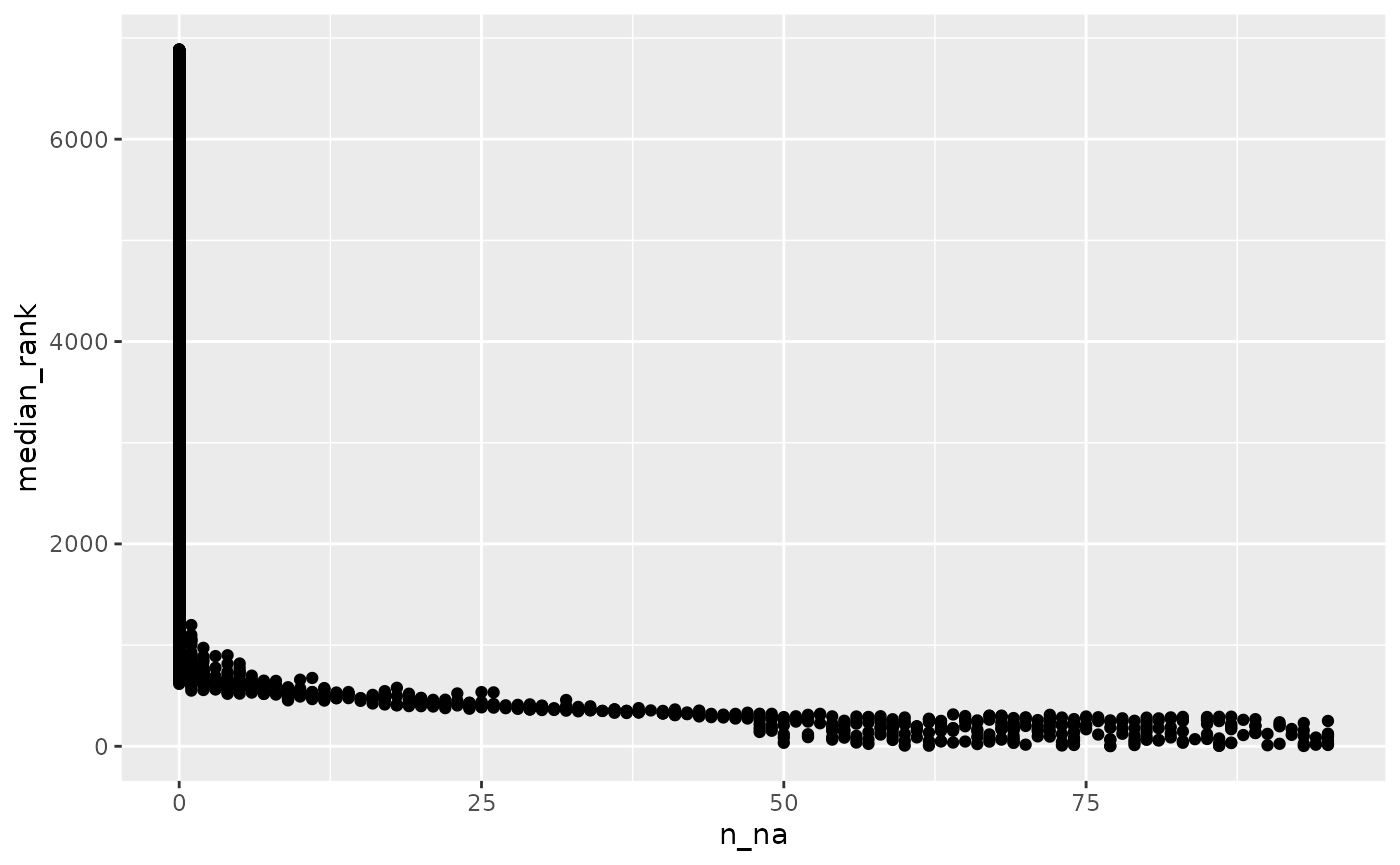
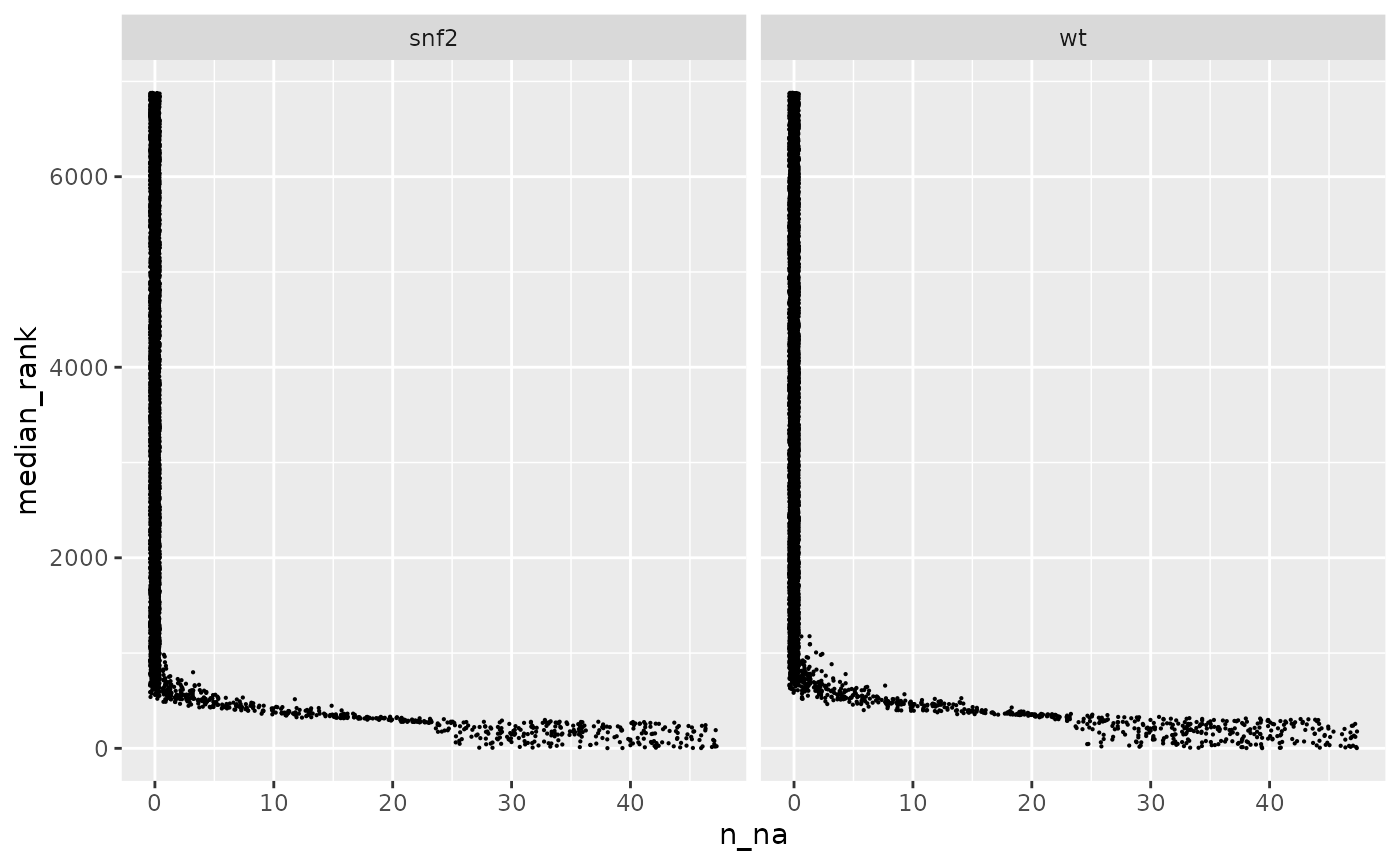
adds sample classes for the rank ordering

diff --git a/docs/articles/testing-for-left-censorship.html b/docs/articles/testing-for-left-censorship.html
@@ -26,7 +26,7 @@
     
     <a class="navbar-brand me-2" href="../index.html">ICIKendallTau</a>
 
-    <small class="nav-text text-muted me-auto" data-bs-toggle="tooltip" data-bs-placement="bottom" title="">1.1.2</small>
+    <small class="nav-text text-muted me-auto" data-bs-toggle="tooltip" data-bs-placement="bottom" title="">1.1.3</small>
 
     
     <button class="navbar-toggler" type="button" data-bs-toggle="collapse" data-bs-target="#navbar" aria-controls="navbar" aria-expanded="false" aria-label="Toggle navigation">
@@ -215,25 +215,28 @@ in a real data context.</p>
 <p>In addition to testing, we can re-order the features based on their
 median ranking across samples.</p>
 <div class="sourceCode" id="cb8"><pre class="downlit sourceCode r">
-<code class="sourceCode R"><span><span class="va">yeast_order</span> <span class="op">=</span> <span class="fu"><a href="../reference/rank_order_data.html">rank_order_data</a></span><span class="op">(</span><span class="va">yeast_missing</span><span class="op">)</span></span></code></pre></div>
+<code class="sourceCode R"><span><span class="va">yeast_order</span> <span class="op">=</span> <span class="fu"><a href="../reference/rank_order_data.html">rank_order_data</a></span><span class="op">(</span><span class="va">yeast_missing</span>, sample_classes <span class="op">=</span> <span class="va">yeast_classes</span><span class="op">)</span></span></code></pre></div>
 <div class="sourceCode" id="cb9"><pre class="downlit sourceCode r">
-<code class="sourceCode R"><span><span class="fu">visdat</span><span class="fu">::</span><span class="fu"><a href="https://docs.ropensci.org/visdat/reference/vis_miss.html" class="external-link">vis_miss</a></span><span class="op">(</span><span class="fu"><a href="https://rdrr.io/r/base/as.data.frame.html" class="external-link">as.data.frame</a></span><span class="op">(</span><span class="va">yeast_order</span><span class="op">$</span><span class="va">original</span><span class="op">)</span><span class="op">)</span></span></code></pre></div>
+<code class="sourceCode R"><span><span class="fu">visdat</span><span class="fu">::</span><span class="fu"><a href="https://docs.ropensci.org/visdat/reference/vis_miss.html" class="external-link">vis_miss</a></span><span class="op">(</span><span class="fu"><a href="https://rdrr.io/r/base/as.data.frame.html" class="external-link">as.data.frame</a></span><span class="op">(</span><span class="va">yeast_order</span><span class="op">$</span><span class="va">wt</span><span class="op">$</span><span class="va">original</span><span class="op">)</span><span class="op">)</span></span></code></pre></div>
 <div class="figure">
 <img src="testing-for-left-censorship_files/figure-html/fig-yeast-original-1.png" alt="Missingness in yeast data set, no ordering." width="700"><p class="caption">
 Missingness in yeast data set, no ordering.
 </p>
 </div>
 <div class="sourceCode" id="cb10"><pre class="downlit sourceCode r">
-<code class="sourceCode R"><span><span class="fu">visdat</span><span class="fu">::</span><span class="fu"><a href="https://docs.ropensci.org/visdat/reference/vis_miss.html" class="external-link">vis_miss</a></span><span class="op">(</span><span class="fu"><a href="https://rdrr.io/r/base/as.data.frame.html" class="external-link">as.data.frame</a></span><span class="op">(</span><span class="va">yeast_order</span><span class="op">$</span><span class="va">ordered</span><span class="op">)</span><span class="op">)</span></span></code></pre></div>
+<code class="sourceCode R"><span><span class="fu">visdat</span><span class="fu">::</span><span class="fu"><a href="https://docs.ropensci.org/visdat/reference/vis_miss.html" class="external-link">vis_miss</a></span><span class="op">(</span><span class="fu"><a href="https://rdrr.io/r/base/as.data.frame.html" class="external-link">as.data.frame</a></span><span class="op">(</span><span class="va">yeast_order</span><span class="op">$</span><span class="va">wt</span><span class="op">$</span><span class="va">ordered</span><span class="op">)</span><span class="op">)</span></span></code></pre></div>
 <div class="figure">
 <img src="testing-for-left-censorship_files/figure-html/fig-yeast-reordered-1.png" alt="Missingness in yeast data set, after ordering features by rank." width="700"><p class="caption">
 Missingness in yeast data set, after ordering features by rank.
 </p>
 </div>
 <div class="sourceCode" id="cb11"><pre class="downlit sourceCode r">
-<code class="sourceCode R"><span><span class="va">yeast_order</span><span class="op">$</span><span class="va">n_na_rank</span> <span class="op">|&gt;</span></span>
+<code class="sourceCode R"><span><span class="va">yeast_n_na</span> <span class="op">=</span> <span class="fu">dplyr</span><span class="fu">::</span><span class="fu"><a href="https://dplyr.tidyverse.org/reference/bind_rows.html" class="external-link">bind_rows</a></span><span class="op">(</span><span class="va">yeast_order</span><span class="op">$</span><span class="va">wt</span><span class="op">$</span><span class="va">n_na_rank</span>,</span>
+<span>                              <span class="va">yeast_order</span><span class="op">$</span><span class="va">snf2</span><span class="op">$</span><span class="va">n_na_rank</span><span class="op">)</span></span>
+<span><span class="va">yeast_n_na</span> <span class="op">|&gt;</span></span>
 <span>  <span class="fu"><a href="https://ggplot2.tidyverse.org/reference/ggplot.html" class="external-link">ggplot</a></span><span class="op">(</span><span class="fu"><a href="https://ggplot2.tidyverse.org/reference/aes.html" class="external-link">aes</a></span><span class="op">(</span>x <span class="op">=</span> <span class="va">n_na</span>, y <span class="op">=</span> <span class="va">median_rank</span><span class="op">)</span><span class="op">)</span> <span class="op">+</span></span>
-<span>  <span class="fu"><a href="https://ggplot2.tidyverse.org/reference/geom_point.html" class="external-link">geom_point</a></span><span class="op">(</span><span class="op">)</span></span></code></pre></div>
+<span>  <span class="fu"><a href="https://ggplot2.tidyverse.org/reference/geom_point.html" class="external-link">geom_point</a></span><span class="op">(</span>size <span class="op">=</span> <span class="fl">0.1</span>, position <span class="op">=</span> <span class="st">"jitter"</span><span class="op">)</span> <span class="op">+</span></span>
+<span>  <span class="fu"><a href="https://ggplot2.tidyverse.org/reference/facet_wrap.html" class="external-link">facet_wrap</a></span><span class="op">(</span><span class="op">~</span> <span class="va">split</span>, nrow <span class="op">=</span> <span class="fl">1</span><span class="op">)</span></span></code></pre></div>
 <div class="figure">
 <img src="testing-for-left-censorship_files/figure-html/fig-yeast-nna-1.png" alt="Feature rank as a function of the number of missing values." width="700"><p class="caption">
 Feature rank as a function of the number of missing values.

diff --git a/docs/articles/ici-kendalltau.html b/docs/articles/ici-kendalltau.html
@@ -26,7 +26,7 @@
     
     <a class="navbar-brand me-2" href="../index.html">ICIKendallTau</a>
 
-    <small class="nav-text text-muted me-auto" data-bs-toggle="tooltip" data-bs-placement="bottom" title="">1.1.2</small>
+    <small class="nav-text text-muted me-auto" data-bs-toggle="tooltip" data-bs-placement="bottom" title="">1.1.3</small>
 
     
     <button class="navbar-toggler" type="button" data-bs-toggle="collapse" data-bs-target="#navbar" aria-controls="navbar" aria-expanded="false" aria-label="Toggle navigation">
@@ -329,11 +329,11 @@ use the double merge-sort algorithm, translating {scipy::
 <span><span class="op">)</span></span>
 <span><span class="co">#&gt; Unit: microseconds</span></span>
 <span><span class="co">#&gt;                           expr       min        lq       mean    median</span></span>
-<span><span class="co">#&gt;  cor(x, y, method = "kendall") 12834.512 13001.553 13462.7952 13188.325</span></span>
-<span><span class="co">#&gt;         ici_kt(x, y, "global")   260.892   270.884   320.7872   287.899</span></span>
+<span><span class="co">#&gt;  cor(x, y, method = "kendall") 13366.180 13440.327 14114.0554 13697.570</span></span>
+<span><span class="co">#&gt;         ici_kt(x, y, "global")   262.627   307.663   346.0602   320.794</span></span>
 <span><span class="co">#&gt;         uq       max neval</span></span>
-<span><span class="co">#&gt;  14032.272 14257.314     5</span></span>
-<span><span class="co">#&gt;    319.557   464.704     5</span></span></code></pre></div>
+<span><span class="co">#&gt;  14627.574 15438.626     5</span></span>
+<span><span class="co">#&gt;    369.942   469.275     5</span></span></code></pre></div>
 <div class="sourceCode" id="cb3"><pre class="downlit sourceCode r">
 <code class="sourceCode R"><span><span class="fu"><a href="https://rdrr.io/r/base/all.equal.html" class="external-link">all.equal</a></span><span class="op">(</span><span class="fu"><a href="../reference/ici_kt.html">ici_kt</a></span><span class="op">(</span><span class="va">x</span>, <span class="va">y</span>, <span class="st">"global"</span><span class="op">)</span><span class="op">[[</span><span class="fl">1</span><span class="op">]</span><span class="op">]</span>, <span class="fu"><a href="https://rdrr.io/r/stats/cor.html" class="external-link">cor</a></span><span class="op">(</span><span class="va">x</span>, <span class="va">y</span>, method <span class="op">=</span> <span class="st">"kendall"</span><span class="op">)</span><span class="op">)</span></span>
 <span><span class="co">#&gt; [1] TRUE</span></span></code></pre></div>

diff --git a/docs/reference/rank_order_data.html b/docs/reference/rank_order_data.html
@@ -16,7 +16,7 @@ and a data.frame of the ranks of each feature and the number of missing values."
     
     <a class="navbar-brand me-2" href="../index.html">ICIKendallTau</a>
 
-    <small class="nav-text text-muted me-auto" data-bs-toggle="tooltip" data-bs-placement="bottom" title="">1.1.2</small>
+    <small class="nav-text text-muted me-auto" data-bs-toggle="tooltip" data-bs-placement="bottom" title="">1.1.3</small>
 
     
     <button class="navbar-toggler" type="button" data-bs-toggle="collapse" data-bs-target="#navbar" aria-controls="navbar" aria-expanded="false" aria-label="Toggle navigation">
@@ -67,7 +67,7 @@ and a data.frame of the ranks of each feature and the number of missing values.<
 
     <div class="section level2">
     <h2 id="ref-usage">Usage<a class="anchor" aria-label="anchor" href="#ref-usage"></a></h2>
-    <div class="sourceCode"><pre class="sourceCode r"><code><span><span class="fu">rank_order_data</span><span class="op">(</span><span class="va">data_matrix</span>, global_na <span class="op">=</span> <span class="fu"><a href="https://rdrr.io/r/base/c.html" class="external-link">c</a></span><span class="op">(</span><span class="cn">NA</span>, <span class="cn">Inf</span>, <span class="fl">0</span><span class="op">)</span><span class="op">)</span></span></code></pre></div>
+    <div class="sourceCode"><pre class="sourceCode r"><code><span><span class="fu">rank_order_data</span><span class="op">(</span><span class="va">data_matrix</span>, global_na <span class="op">=</span> <span class="fu"><a href="https://rdrr.io/r/base/c.html" class="external-link">c</a></span><span class="op">(</span><span class="cn">NA</span>, <span class="cn">Inf</span>, <span class="fl">0</span><span class="op">)</span>, sample_classes <span class="op">=</span> <span class="cn">NULL</span><span class="op">)</span></span></code></pre></div>
     </div>
 
     <div class="section level2">
@@ -78,6 +78,10 @@ and a data.frame of the ranks of each feature and the number of missing values.<
 
 <dt>global_na</dt>
 <dd><p>the values to consider as missing</p></dd>
+
+
+<dt>sample_classes</dt>
+<dd><p>are the columns defined by some metadata?</p></dd>
 
 </dl></div>
     <div class="section level2">

diff --git a/docs/reference/test_left_censorship.html b/docs/reference/test_left_censorship.html
@@ -14,7 +14,7 @@ left-censored distribution."><!-- mathjax --><script src="https://cdnjs.cloudfla
     
     <a class="navbar-brand me-2" href="../index.html">ICIKendallTau</a>
 
-    <small class="nav-text text-muted me-auto" data-bs-toggle="tooltip" data-bs-placement="bottom" title="">1.1.2</small>
+    <small class="nav-text text-muted me-auto" data-bs-toggle="tooltip" data-bs-placement="bottom" title="">1.1.3</small>
 
     
     <button class="navbar-toggler" type="button" data-bs-toggle="collapse" data-bs-target="#navbar" aria-controls="navbar" aria-expanded="false" aria-label="Toggle navigation">
@@ -66,8 +66,8 @@ left-censored distribution.</p>
     <h2 id="ref-usage">Usage<a class="anchor" aria-label="anchor" href="#ref-usage"></a></h2>
     <div class="sourceCode"><pre class="sourceCode r"><code><span><span class="fu">test_left_censorship</span><span class="op">(</span></span>
 <span>  <span class="va">data_matrix</span>,</span>
-<span>  sample_classes <span class="op">=</span> <span class="cn">NULL</span>,</span>
-<span>  global_na <span class="op">=</span> <span class="fu"><a href="https://rdrr.io/r/base/c.html" class="external-link">c</a></span><span class="op">(</span><span class="cn">NA</span>, <span class="cn">Inf</span>, <span class="fl">0</span><span class="op">)</span></span>
+<span>  global_na <span class="op">=</span> <span class="fu"><a href="https://rdrr.io/r/base/c.html" class="external-link">c</a></span><span class="op">(</span><span class="cn">NA</span>, <span class="cn">Inf</span>, <span class="fl">0</span><span class="op">)</span>,</span>
+<span>  sample_classes <span class="op">=</span> <span class="cn">NULL</span></span>
 <span><span class="op">)</span></span></code></pre></div>
     </div>
 
@@ -77,12 +77,12 @@ left-censored distribution.</p>
 <dd><p>matrix or data.frame of numeric data</p></dd>
 
 
-<dt>sample_classes</dt>
-<dd><p>which samples are in which class</p></dd>
-
-
 <dt>global_na</dt>
 <dd><p>what represents zero or missing?</p></dd>
+
+
+<dt>sample_classes</dt>
+<dd><p>which samples are in which class</p></dd>
 
 </dl></div>
     <div class="section level2">

diff --git a/docs/authors.html b/docs/authors.html
@@ -10,7 +10,7 @@
     
     <a class="navbar-brand me-2" href="index.html">ICIKendallTau</a>
 
-    <small class="nav-text text-muted me-auto" data-bs-toggle="tooltip" data-bs-placement="bottom" title="">1.1.2</small>
+    <small class="nav-text text-muted me-auto" data-bs-toggle="tooltip" data-bs-placement="bottom" title="">1.1.3</small>
 
     
     <button class="navbar-toggler" type="button" data-bs-toggle="collapse" data-bs-target="#navbar" aria-controls="navbar" aria-expanded="false" aria-label="Toggle navigation">
@@ -69,13 +69,13 @@
 
       <p>Flight RM, Moseley HN (2024).
 <em>ICIKendallTau: Calculates information-content-informed Kendall-tau</em>.
-R package version 1.1.2, <a href="https://moseleybioinformaticslab.github.io/ICIKendallTau/https://github.com/moseleybioinformaticslab/ICIKendallTau/" class="external-link">https://moseleybioinformaticslab.github.io/ICIKendallTau/https://github.com/moseleybioinformaticslab/ICIKendallTau/</a>. 
+R package version 1.1.3, <a href="https://moseleybioinformaticslab.github.io/ICIKendallTau/https://github.com/moseleybioinformaticslab/ICIKendallTau/" class="external-link">https://moseleybioinformaticslab.github.io/ICIKendallTau/https://github.com/moseleybioinformaticslab/ICIKendallTau/</a>. 
 </p>
       <pre>@Manual{,
   title = {ICIKendallTau: Calculates information-content-informed Kendall-tau},
   author = {Robert M Flight and Hunter NB Moseley},
   year = {2024},
-  note = {R package version 1.1.2},
+  note = {R package version 1.1.3},
   url = {https://moseleybioinformaticslab.github.io/ICIKendallTau/
 https://github.com/moseleybioinformaticslab/ICIKendallTau/},
 }</pre>

diff --git a/docs/news/index.html b/docs/news/index.html
@@ -10,7 +10,7 @@
     
     <a class="navbar-brand me-2" href="../index.html">ICIKendallTau</a>
 
-    <small class="nav-text text-muted me-auto" data-bs-toggle="tooltip" data-bs-placement="bottom" title="">1.1.2</small>
+    <small class="nav-text text-muted me-auto" data-bs-toggle="tooltip" data-bs-placement="bottom" title="">1.1.3</small>
 
     
     <button class="navbar-toggler" type="button" data-bs-toggle="collapse" data-bs-target="#navbar" aria-controls="navbar" aria-expanded="false" aria-label="Toggle navigation">
@@ -51,6 +51,10 @@
       <small>Source: <a href="https://github.com/moseleybioinformaticslab/ICIKendallTau/blob/HEAD/NEWS.md" class="external-link"><code>NEWS.md</code></a></small>
     </div>
 
+    <div class="section level2">
+<h2 class="pkg-version" data-toc-text="1.1.3" id="icikendalltau-113">ICIKendallTau 1.1.3<a class="anchor" aria-label="anchor" href="#icikendalltau-113"></a></h2>
+<ul><li>makes <code>rank_order_data</code> take a sample class argument to enable splitting out by class.</li>
+</ul></div>
     <div class="section level2">
 <h2 class="pkg-version" data-toc-text="1.1.2" id="icikendalltau-112">ICIKendallTau 1.1.2<a class="anchor" aria-label="anchor" href="#icikendalltau-112"></a></h2>
 <ul><li>adds the <code>rank_order_data</code> function to help with visualizing the pattern of missingness with respect to the rank of the rows.</li>

diff --git a/docs/reference/add_uniform_noise.html b/docs/reference/add_uniform_noise.html
@@ -12,7 +12,7 @@ the original."><!-- mathjax --><script src="https://cdnjs.cloudflare.com/ajax/li
     
     <a class="navbar-brand me-2" href="../index.html">ICIKendallTau</a>
 
-    <small class="nav-text text-muted me-auto" data-bs-toggle="tooltip" data-bs-placement="bottom" title="">1.1.2</small>
+    <small class="nav-text text-muted me-auto" data-bs-toggle="tooltip" data-bs-placement="bottom" title="">1.1.3</small>
 
     
     <button class="navbar-toggler" type="button" data-bs-toggle="collapse" data-bs-target="#navbar" aria-controls="navbar" aria-expanded="false" aria-label="Toggle navigation">

diff --git a/docs/reference/disable_logging.html b/docs/reference/disable_logging.html
@@ -12,7 +12,7 @@ basically tells the package that the logger isn't available."><!-- mathjax --><s
     
     <a class="navbar-brand me-2" href="../index.html">ICIKendallTau</a>
 
-    <small class="nav-text text-muted me-auto" data-bs-toggle="tooltip" data-bs-placement="bottom" title="">1.1.2</small>
+    <small class="nav-text text-muted me-auto" data-bs-toggle="tooltip" data-bs-placement="bottom" title="">1.1.3</small>
 
     
     <button class="navbar-toggler" type="button" data-bs-toggle="collapse" data-bs-target="#navbar" aria-controls="navbar" aria-expanded="false" aria-label="Toggle navigation">

diff --git a/docs/reference/ici_kendalltau.html b/docs/reference/ici_kendalltau.html
@@ -12,7 +12,7 @@ all samples."><!-- mathjax --><script src="https://cdnjs.cloudflare.com/ajax/lib
     
     <a class="navbar-brand me-2" href="../index.html">ICIKendallTau</a>
 
-    <small class="nav-text text-muted me-auto" data-bs-toggle="tooltip" data-bs-placement="bottom" title="">1.1.2</small>
+    <small class="nav-text text-muted me-auto" data-bs-toggle="tooltip" data-bs-placement="bottom" title="">1.1.3</small>
 
     
     <button class="navbar-toggler" type="button" data-bs-toggle="collapse" data-bs-target="#navbar" aria-controls="navbar" aria-expanded="false" aria-label="Toggle navigation">

diff --git a/docs/reference/ici_kendalltau_ref.html b/docs/reference/ici_kendalltau_ref.html
@@ -12,7 +12,7 @@ all samples."><!-- mathjax --><script src="https://cdnjs.cloudflare.com/ajax/lib
     
     <a class="navbar-brand me-2" href="../index.html">ICIKendallTau</a>
 
-    <small class="nav-text text-muted me-auto" data-bs-toggle="tooltip" data-bs-placement="bottom" title="">1.1.2</small>
+    <small class="nav-text text-muted me-auto" data-bs-toggle="tooltip" data-bs-placement="bottom" title="">1.1.3</small>
 
     
     <button class="navbar-toggler" type="button" data-bs-toggle="collapse" data-bs-target="#navbar" aria-controls="navbar" aria-expanded="false" aria-label="Toggle navigation">

diff --git a/docs/reference/kt_fast.html b/docs/reference/kt_fast.html
@@ -12,7 +12,7 @@ of Kendall-tau correlation."><!-- mathjax --><script src="https://cdnjs.cloudfla
     
     <a class="navbar-brand me-2" href="../index.html">ICIKendallTau</a>
 
-    <small class="nav-text text-muted me-auto" data-bs-toggle="tooltip" data-bs-placement="bottom" title="">1.1.2</small>
+    <small class="nav-text text-muted me-auto" data-bs-toggle="tooltip" data-bs-placement="bottom" title="">1.1.3</small>
 
     
     <button class="navbar-toggler" type="button" data-bs-toggle="collapse" data-bs-target="#navbar" aria-controls="navbar" aria-expanded="false" aria-label="Toggle navigation">

diff --git a/docs/reference/log_memory.html b/docs/reference/log_memory.html
@@ -12,7 +12,7 @@ generating warnings if the amount of RAM hits zero."><!-- mathjax --><script src
     
     <a class="navbar-brand me-2" href="../index.html">ICIKendallTau</a>
 
-    <small class="nav-text text-muted me-auto" data-bs-toggle="tooltip" data-bs-placement="bottom" title="">1.1.2</small>
+    <small class="nav-text text-muted me-auto" data-bs-toggle="tooltip" data-bs-placement="bottom" title="">1.1.3</small>
 
     
     <button class="navbar-toggler" type="button" data-bs-toggle="collapse" data-bs-target="#navbar" aria-controls="navbar" aria-expanded="false" aria-label="Toggle navigation">
